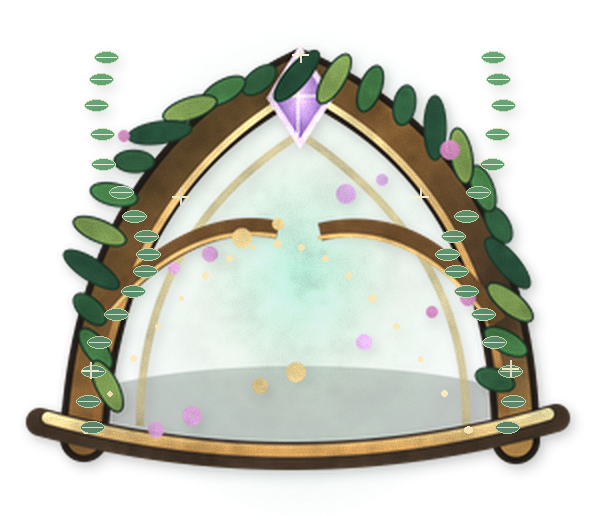
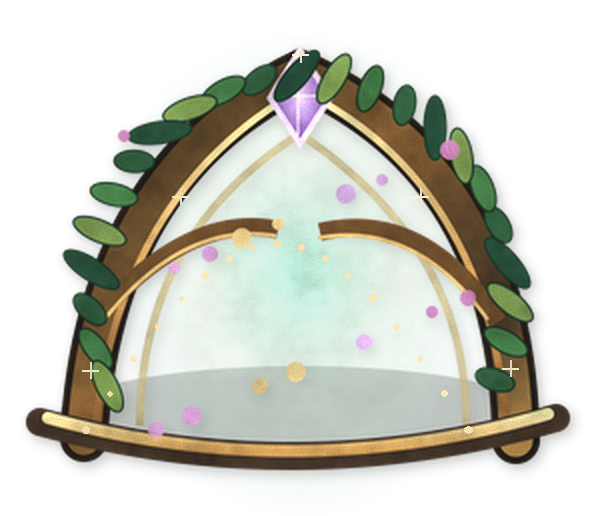
G10 art polish: refine scene materials and commit deterministic asset generator

diff --git a/lab/senda-premium/scripts/build-g10-materials.py b/lab/senda-premium/scripts/build-g10-materials.py
@@ -1,0 +1,100 @@
+"""G10 enhanced 2.5D material sprites (transparent) derived from G9 self-authored SVG/PNG candidates.
+Deterministic local processing, no licensed art, no external dependencies beyond Pillow/numpy.
+"""
+from pathlib import Path
+from PIL import Image,ImageDraw,ImageFilter,ImageEnhance
+import numpy as np, random, math, json
+PROJECT=Path(__file__).resolve().parent.parent
+BASE=PROJECT/'public/assets/g9'
+OUT=PROJECT/'public/assets/g10';OUT.mkdir(parents=True,exist_ok=True)
+R=random.Random(20261019)
+def f(v): return int(v)
+def base_im(name):
+    x=Image.open(BASE/(name+'.png')).convert('RGBA')
+    return x.resize((x.width*2,x.height*2),Image.Resampling.LANCZOS)
+def noise_brush(im,seed,rough=.18):
+    rng=np.random.default_rng(seed);a=np.array(im).astype(np.float32)
+    h,w=a.shape[:2]
+    # fine matte pigment texture and large mottled hand-painted shading
+    coarse=rng.normal(128,36,(max(2,h//24),max(2,w//24))).clip(0,255).astype('uint8')
+    coarse=np.asarray(Image.fromarray(coarse).resize((w,h),Image.Resampling.BICUBIC).filter(ImageFilter.GaussianBlur(6))).astype(float)-128
+    medium=rng.normal(128,38,(max(2,h//8),max(2,w//8))).clip(0,255).astype('uint8')
+    medium=np.asarray(Image.fromarray(medium).resize((w,h),Image.Resampling.BILINEAR)).astype(float)-128
+    grain=rng.normal(0,7,(h,w))
+    factor=1+rough*(coarse/100+medium/185)+grain/255
+    factor=np.clip(factor,.68,1.3)
+    a[:,:,:3]*=factor[:,:,None]
+    a[:,:,:3]=np.clip(a[:,:,:3],0,255)
+    return Image.fromarray(a.astype('uint8'),'RGBA')
+def alpha_shadow(im,dx=7,dy=10,blur=8,opacity=.36):
+    alp=im.getchannel('A'); shadow=Image.new('RGBA',im.size,(0,0,0,0)); alpha=alp.filter(ImageFilter.GaussianBlur(blur)).point(lambda a:int(a*opacity))
+    shadow.paste((9,17,12), (dx,dy,dx+im.width,dy+im.height) if False else (dx,dy), alpha)
+    # paste with alpha on partly offscreen area may be clipped
+    return Image.alpha_composite(shadow,im)
+def draw_ornaments(im):
+    s=im.width/300; D=ImageDraw.Draw(im,'RGBA')
+    # Three-dimensional gold ribs on original arch geometry, hand engraved
+    for k in range(17):
+        x=(43+k*11.95)*s
+        y=(215-93*math.sin(math.pi*k/16))*s
+        R.random();radius=R.choice([1.15,1.5,1.9])*s
+        D.ellipse((x-radius,y-radius,x+radius,y+radius),fill=(255,229,161,180))
+    # carved glints and gems
+    for gx,gy in [(150,27),(45,185),(255,184),(90,98),(210,98)]:
+        x=gx*s;y=gy*s
+        D.line((x-4*s,y,x+4*s,y),fill=(255,250,194,160),width=max(1,int(1.2*s)))
+        D.line((x,y-4*s,x,y+4*s),fill=(252,233,177,100),width=max(1,int(1.2*s)))
+    return im
+def waterfall_detail(im):
+    s=im.width/260; D=ImageDraw.Draw(im,'RGBA')
+    # layered water flow etched in translucent lines, depth and turbulence
+    for i in range(24):
+        x=(44+i*3.7+R.uniform(-3,3))*s
+        y0=R.uniform(30,80)*s
+        h=R.uniform(125,185)*s
+        col=R.choice([(220,255,255,120),(153,235,240,104),(251,255,255,115),(159,232,247,54)])
+        step=12
+        coords=[]
+        for j in range(step+1):
+            t=j/step
+            coords.append((x+(12*math.sin(t*4.0+i*.7)+13*t)*s,y0+h*t))
+        D.line(coords,fill=col,width=max(1,int(R.choice([.7,1,1.7])*s)),joint='curve')
+    # spray and iridescent whitewater; concentrated at base of falls
+    for i in range(190):
+        x=R.gauss(146,54)*s;y=R.gauss(247,23)*s
+        rad=R.uniform(.4,2.6)*s
+        if 0<x<im.width and 0<y<im.height:
+            D.ellipse((x-rad,y-rad*.44,x+rad,y+rad*.44),fill=R.choice([(226,251,255,143),(174,239,242,180),(247,255,246,125)]))
+    for i in range(22):
+        x=R.uniform(80,224)*s;y=R.uniform(207,272)*s
+        D.arc((x-18*s,y-7*s,x+18*s,y+7*s),185,344,fill=(229,255,255,R.randint(70,160)),width=max(1,int(1.2*s)))
+    return im
+def foliage_detail(im):
+    s=im.width/325;D=ImageDraw.Draw(im,'RGBA')
+    # softly painted foreground botanical leaves, fine veins and scattered blossoms
+    for i in range(96):
+        x=(R.uniform(0,235))*s; y=R.uniform(25,295)*s
+        if x>193*s and y>190*s:continue
+        rad=R.uniform(4,11)*s; theta=R.uniform(-math.pi,math.pi)
+        dx=math.cos(theta)*rad; dy=math.sin(theta)*rad*.42
+        col=R.choice([(39,103,61,155),(103,151,70,190),(183,200,108,112),(42,70,49,175)])
+        D.ellipse((x-rad,y-rad*.45,x+rad,y+rad*.45),fill=col)
+        D.line((x-dx,y-dy,x+dx,y+dy),fill=(210,232,158,88),width=max(1,int(.65*s)))
+    # blossom stamens catching warm sunlight
+    for i in range(38):
+        x=R.uniform(6,190)*s;y=R.uniform(20,270)*s
+        rad=R.uniform(1.1,2.6)*s
+        D.ellipse((x-rad,y-rad,x+rad,y+rad),fill=R.choice([(243,178,206,170),(250,229,176,170),(240,229,253,170)]))
+    # pollen wisps
+    for i in range(24):
+        x=R.uniform(20,200)*s;y=R.uniform(5,260)*s
+        D.point((x,y),fill=(255,239,165,245))
+    return im
+records=[]
+for index,name in enumerate(['arch_gate','waterfall','foreground_flora']):
+    x=noise_brush(base_im(name),1610+index,rough=.21 if name!='waterfall' else .14)
+    x={'arch_gate':draw_ornaments,'waterfall':waterfall_detail,'foreground_flora':foliage_detail}[name](x)
+    x=alpha_shadow(x,dx=4,dy=5,blur=6,opacity=.22) if name!='waterfall' else x
+    dest=OUT/(name+'.png');x.save(dest,optimize=True)
+    records.append({'file':dest.name,'size':list(x.size),'bytes':dest.stat().st_size,'transparent':bool(x.getchannel('A').getextrema()[0]==0)})
+print(json.dumps(records,indent=2))

diff --git a/lab/senda-premium/G10_README.md b/lab/senda-premium/G10_README.md
@@ -10,7 +10,7 @@ G10 lab production candidate. This branch derives from G9 GREEN; does NOT publis
 - 1 E2E per viewport (390x844,1280x800). Asset size and SHA256 are recorded; no audio autoplay, reduced-motion respected, XP and coins never modified by scene.
 
 ## Art constraints
-No asset was cut from the official Key Art; this is derivative of the G9 procedural source sprites. Art remains an **unapproved candidate**, not a statement of final polish. Avoid new paid tooling.
+No asset was cut from the official Key Art; this is derivative of the G9 procedural source sprites. Art remains an **unapproved candidate**, not a statement of final polish. Avoid new paid tooling. Source art generation is reproducible with `python scripts/build-g10-materials.py` (requires Pillow and NumPy only). Original G9 art files remain untouched.
 
 ## Current deployment
 Branch only, no `main` modification. Public G4.2 remains the stable link.
